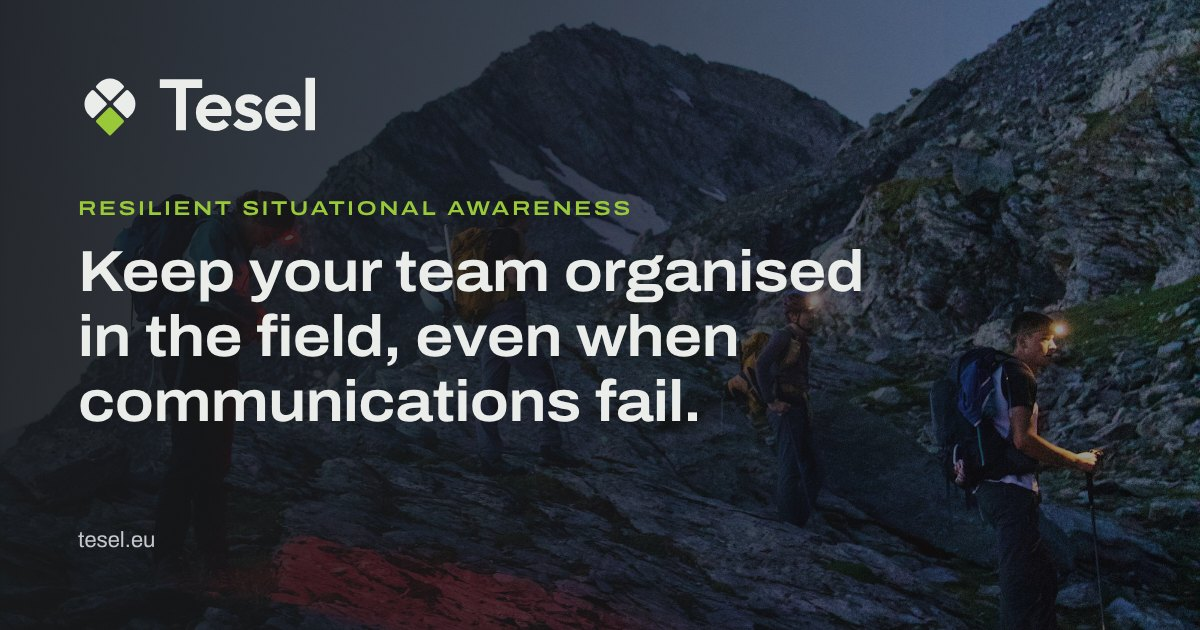
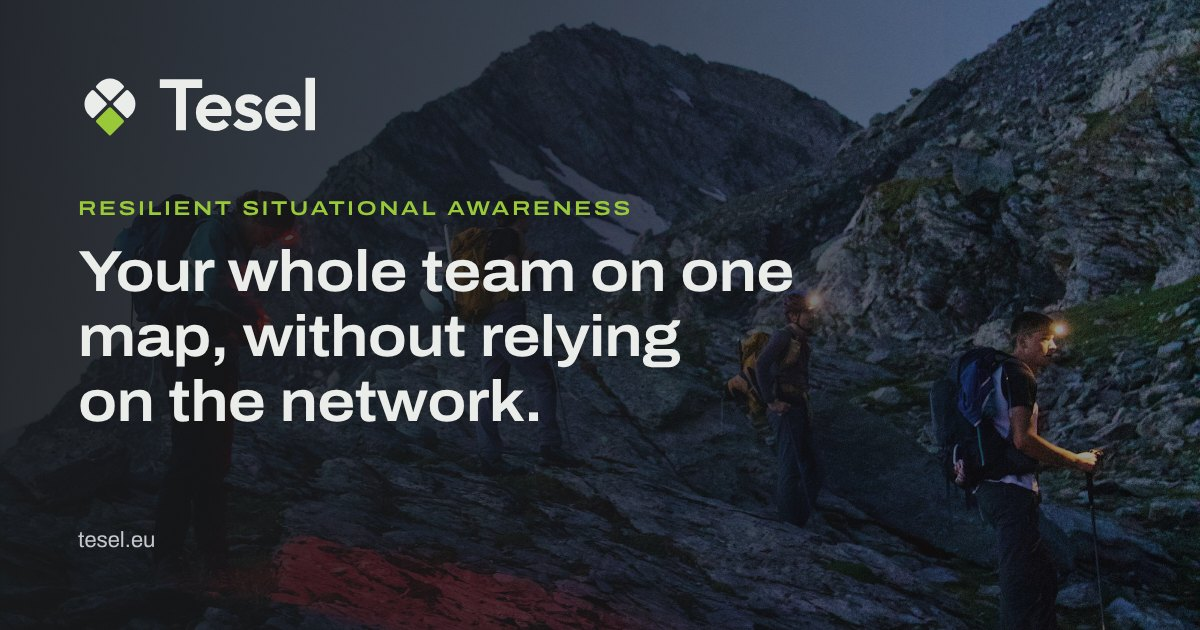
feat(site): headline "Todo tu equipo en el mismo mapa, sin depender de la red"
English: "Your whole team on one map, without relying on the network".
The description for search engines and the pictures for shared links
follow.

Claude-Session: https://claude.ai/code/session_01Hfm8dyPBUQ5nGwrtNpfWec

Changed region(s): [[0.0617, 0.3921, 0.74, 0.6937]]

diff --git a/apps/site/index.html b/apps/site/index.html
@@ -31,7 +31,7 @@
     <meta property="og:image:height" content="630" />
     <meta
       property="og:image:alt"
-      content="Tesel: consciencia situacional resiliente. Organiza a tu equipo sobre el terreno aunque fallen las comunicaciones."
+      content="Tesel: consciencia situacional resiliente. Todo tu equipo en el mismo mapa, sin depender de la red."
     />
     <meta property="og:locale" content="es_ES" />
     <meta property="og:locale:alternate" content="en_GB" />
@@ -85,7 +85,7 @@
         </picture>
         <div class="wrap">
           <p class="eyebrow">Consciencia situacional resiliente</p>
-          <h1>Organiza a tu equipo sobre el terreno aunque fallen las comunicaciones.</h1>
+          <h1>Todo tu equipo en el mismo mapa, sin&nbsp;depender de la red.</h1>
           <p class="lead">
             Dónde está cada uno, qué está pasando y quién se ocupa de qué, en el móvil de todo el
             equipo. Y si se pierde la cobertura, sigue funcionando por una red propia de nodos, sin

diff --git a/apps/site/en/index.html b/apps/site/en/index.html
@@ -29,7 +29,7 @@
     <meta property="og:image:height" content="630" />
     <meta
       property="og:image:alt"
-      content="Tesel: resilient situational awareness. Keep your team organised in the field, even when communications fail."
+      content="Tesel: resilient situational awareness. Your whole team on one map, without relying on the network."
     />
     <meta property="og:locale" content="en_GB" />
     <meta property="og:locale:alternate" content="es_ES" />
@@ -88,7 +88,7 @@
         </picture>
         <div class="wrap">
           <p class="eyebrow">Resilient situational awareness</p>
-          <h1>Keep your team organised in the field, even when communications fail.</h1>
+          <h1>Your whole team on one map, without&nbsp;relying on the network.</h1>
           <p class="lead">
             Where everyone is, what is happening and who is taking care of what, on every team
             member's phone. And if coverage is lost, it keeps working over a network of nodes of its
